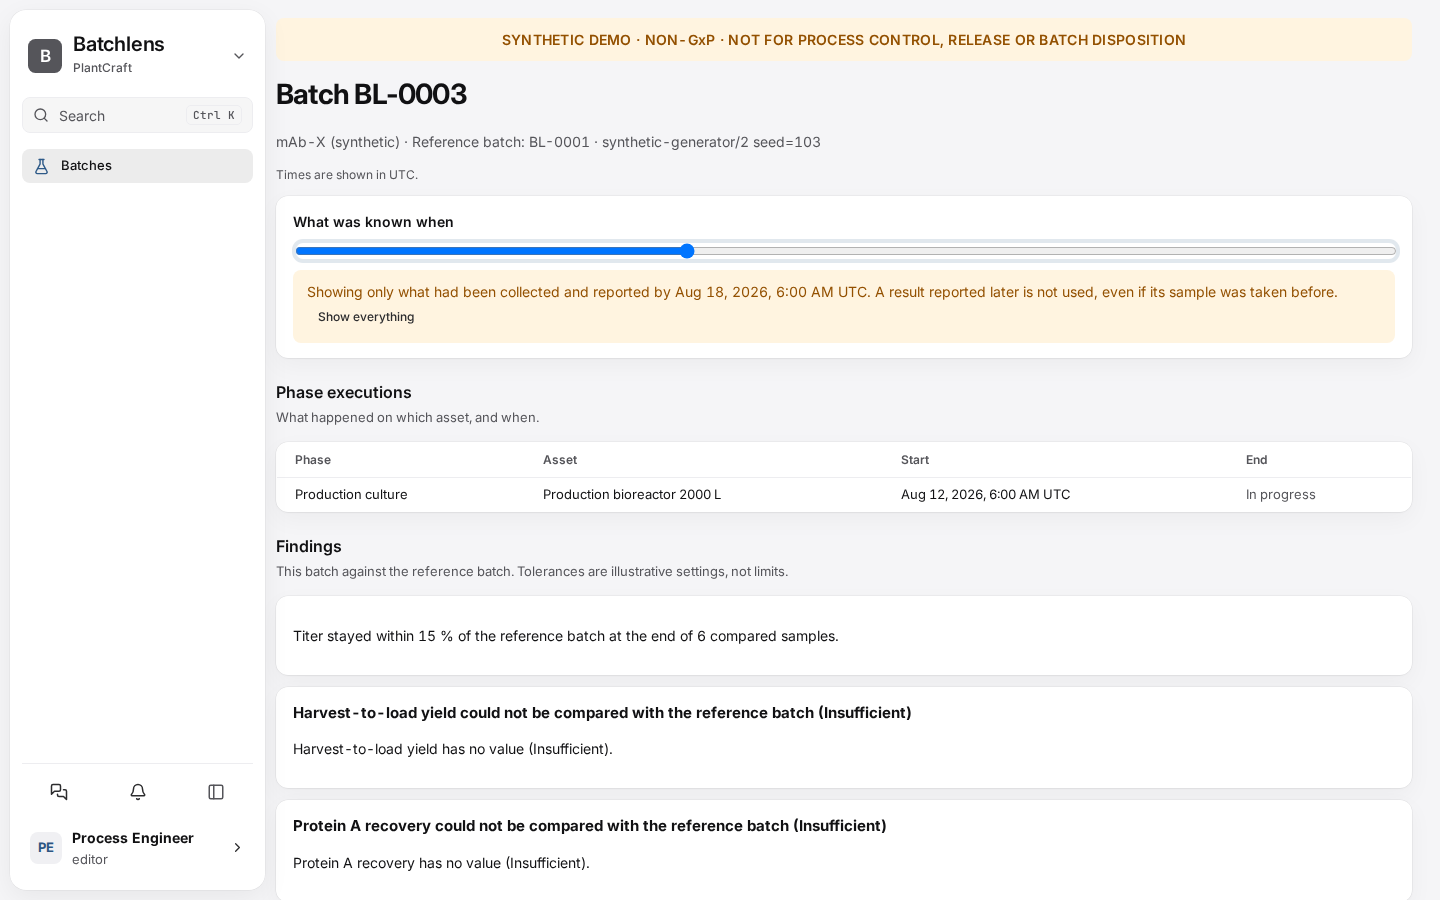
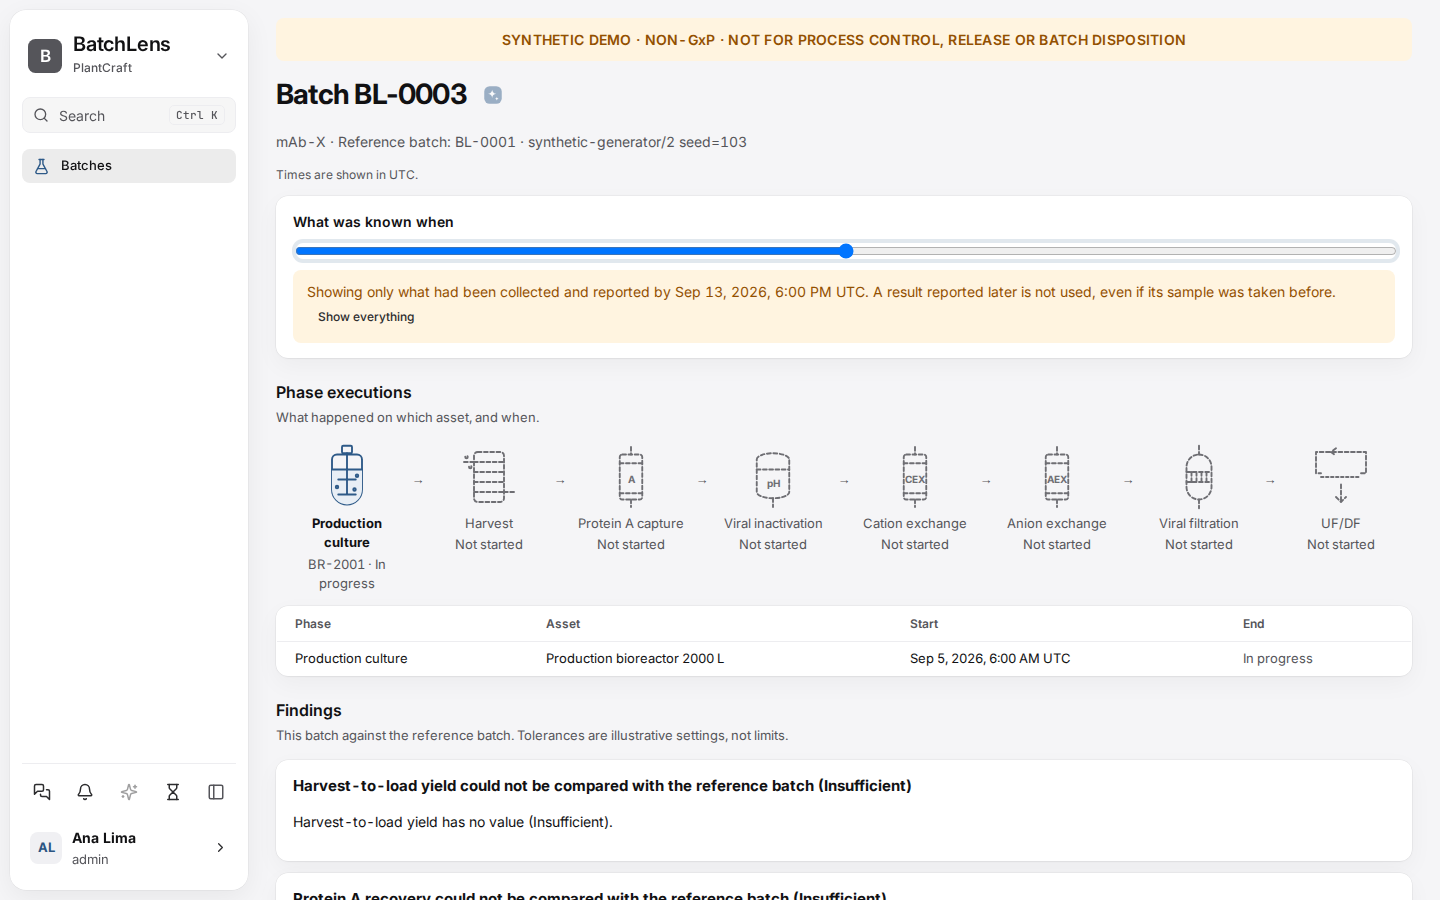
batchlens: plain product and unit names, and the rest of the documents reviewed
The owner found the disclaimers repeated on every line. The banner and
the README state them once; the product is mAb-X and the unit mAb drug
substance. The spec, assumptions and case studies now describe the live
plant, the screenshots are retaken, and the demo script stops its
servers on a signal and refuses to start over a running demo.

diff --git a/frontend/src/pages.test.tsx b/frontend/src/pages.test.tsx
@@ -46,13 +46,13 @@ const VIEWER: Me = { ...EDITOR, username: "operator", can_edit: false };
 const LIST: BatchList = {
   time_zone: "UTC",
   batches: [
-    { batch_id: "BL-0001", product: "mAb-X (synthetic)", is_reference: true, created_at: "2026-07-01T06:00:00.000Z", provenance: "synthetic-generator/1 seed=101", start: "2026-07-01T06:00:00.000Z", end: "2026-07-16T08:00:00.000Z", asset_id: "BR-2001", asset_name: "Production bioreactor 2000 L" },
-    { batch_id: "BL-0002", product: "mAb-X (synthetic)", is_reference: false, created_at: "2026-07-22T06:00:00.000Z", provenance: "synthetic-generator/1 seed=102", start: "2026-07-22T06:00:00.000Z", end: "2026-08-06T08:00:00.000Z", asset_id: "BR-2001", asset_name: null },
+    { batch_id: "BL-0001", product: "mAb-X", is_reference: true, created_at: "2026-07-01T06:00:00.000Z", provenance: "synthetic-generator/1 seed=101", start: "2026-07-01T06:00:00.000Z", end: "2026-07-16T08:00:00.000Z", asset_id: "BR-2001", asset_name: "Production bioreactor 2000 L" },
+    { batch_id: "BL-0002", product: "mAb-X", is_reference: false, created_at: "2026-07-22T06:00:00.000Z", provenance: "synthetic-generator/1 seed=102", start: "2026-07-22T06:00:00.000Z", end: "2026-08-06T08:00:00.000Z", asset_id: "BR-2001", asset_name: null },
   ],
 };
 const DETAIL: BatchDetail = {
   time_zone: "UTC",
-  batch: { batch_id: "BL-0002", product: "mAb-X (synthetic)", is_reference: false, created_at: "2026-07-22T06:00:00.000Z", provenance: "synthetic-generator/1 seed=102" },
+  batch: { batch_id: "BL-0002", product: "mAb-X", is_reference: false, created_at: "2026-07-22T06:00:00.000Z", provenance: "synthetic-generator/1 seed=102" },
   as_of: null, timeline: { start: "2026-07-22T06:00:00.000Z", end: "2026-08-06T10:00:00.000Z" },
   corrections: [{ correction_id: "c1", batch_id: "BL-0002", record_id: "BL-0002-S02", field: "collected_at", old_value: "2026-07-23T07:00:00.000Z", new_value: "2026-07-24T07:00:00.000Z", reason: "Keyed in with the previous sample's time.", corrected_by: "engineer", corrected_at: "2026-08-10T09:00:00.000Z" }],
   phases: [
@@ -166,7 +166,7 @@ describe("the batch list", () => {
     const rows = [...host.querySelectorAll("tbody tr")];
     expect(rows).toHaveLength(2);
     expect(rows[0].querySelector("a")?.getAttribute("href")).toBe("/batchlens/batches/BL-0001");
-    expect(rows[0].textContent).toContain("mAb-X (synthetic)");
+    expect(rows[0].textContent).toContain("mAb-X");
     expect(rows[0].textContent).toContain("Production bioreactor 2000 L");
     expect(rows[0].textContent).toContain("Reference");
     expect(rows[0].textContent).toContain("Jul 1, 2026, 6:00 AM UTC");

diff --git a/frontend/src/pages.tsx b/frontend/src/pages.tsx
@@ -17,7 +17,7 @@ export function tourSteps(): TourStep[] {
   return [
     {
       title: tt("Welcome to BatchLens"),
-      body: tt("BatchLens follows antibody batches from cell culture through purification to drug substance. Everything here is a demonstration: synthetic data, non-GxP."),
+      body: tt("BatchLens follows antibody batches from cell culture through purification to drug substance. Everything here is a demonstration."),
     },
     {
       path: "/",

diff --git a/src/batchlens/demo/plant.py b/src/batchlens/demo/plant.py
@@ -51,7 +51,7 @@ TAGS = {role: f"BIO.{BIOREACTOR}.{role.upper()}" for role in ONLINE_UNITS}
 # asset id -> (kind, name, parent). Roles are free text in PlantCraft's map, so the bioreactor
 # is plain equipment and no asset type has to be made before the import.
 ASSETS = {
-    UNIT: ("unit", "mAb drug substance (synthetic)", None),
+    UNIT: ("unit", "mAb drug substance", None),
     BIOREACTOR: ("equipment", "Production bioreactor 2000 L", UNIT),
     HARVEST_SKID: ("equipment", "Harvest clarification skid", UNIT),
     PROTEIN_A_SKID: ("equipment", "Protein A chromatography skid", UNIT),

diff --git a/tests/test_batches.py b/tests/test_batches.py
@@ -86,7 +86,7 @@ def test_the_list_gives_each_batch_its_reference_flag_window_and_bioreactor(seed
     ]
     assert [row["is_reference"] for row in rows] == [True, False, False, False, False]
     first, record = rows[0], CAMPAIGN["BL-0001"].record
-    assert first["product"] == "mAb-X (synthetic)"
+    assert first["product"] == "mAb-X"
     assert instant(first["start"]) == record.phases[0].start
     assert instant(first["end"]) == record.phases[-1].end
     assert first["asset_id"] == BIOREACTOR

diff --git a/src/batchlens/demo/generator.py b/src/batchlens/demo/generator.py
@@ -30,7 +30,7 @@ from batchlens.batches.models import (
 # Raised when what the generator makes changes, so a database seeded by an older one is
 # recognised (demo/seed.py). 2: the rest of the purification train and the pool genealogy.
 VERSION = "synthetic-generator/2"
-PRODUCT = "mAb-X (synthetic)"
+PRODUCT = "mAb-X"
 # Asset ids of the synthetic plant (tests/plant.py serves them from the fake PlantCraft).
 BIOREACTOR = "BR-2001"
 HARVEST_SKID = "HV-2101"

diff --git a/tools/seed_suite.py b/tools/seed_suite.py
@@ -132,7 +132,7 @@ def diagram() -> dict[str, Any]:
             "type": "text",
             "x": 40.0,
             "y": 40.0,
-            "text": "mAb drug substance train (synthetic demo)",
+            "text": "mAb drug substance train",
             "size": 18,
             "align": "start",
             "bold": True,

diff --git a/SPEC.md b/SPEC.md
@@ -4,9 +4,10 @@ What the app does and the public sources it relies on (AGENTS.md, "Clean room").
 
 ## Purpose
 
-A synthetic-data-only, non-GxP demonstration of mAb manufacturing analytics: for four
-synthetic batches it shows the chain from viable cell density to Protein A recovery, with every
-number traceable to its inputs. It makes no release, disposition or control decision.
+A demonstration of mAb manufacturing analytics on generated data, not a GxP system: for six
+batches, five finished and one running, it shows the chain from viable cell density to drug
+substance, with every number traceable to its inputs. It makes no release, disposition or
+control decision.
 
 ## Who owns what
 
@@ -18,7 +19,7 @@ number traceable to its inputs. It makes no release, disposition or control deci
 
 ## Object
 
-One aggregate, the batch record (`src/batchlens/batches/models.py`), in five tables.
+One aggregate, the batch record (`src/batchlens/batches/models.py`), in six tables, with a seventh for corrections.
 
 | Record | Fields |
 |---|---|
@@ -42,7 +43,7 @@ write routes at the end of the table.
 
 | Route | Answers |
 |---|---|
-| `GET /api/batches` | The batches, with reference flag, window and bioreactor |
+| `GET /api/batches` | The batches, with reference flag, window and bioreactor; a batch still running has no end and `running: true` |
 | `GET /api/batches/{id}?as_of=` | One batch with its phase executions and pool measurements, and the span over which anything about it became known |
 | `GET /api/batches/{id}/samples?as_of=&align_to=` | Samples and assay results, both timestamps on each, and each sample's culture day; with `align_to`, also the instant of the same culture age on another batch's timeline |
 | `GET /api/batches/{id}/metrics?as_of=` | Every metric as a result object, the reference batch's value and the difference; and `findings` against the reference batch (titer divergence, and a shortfall of the harvest-to-load yield, the Protein A recovery and each later purification step's yield), each with an `observation` (a result object), a `consequence`, `evidence` and a `cause` that is always null; and `downstream`: each purification step's masses and yield beside the reference's, the recovery from harvest, and the pool genealogy with the mass balance of a merge |
@@ -57,7 +58,8 @@ yields, with statuses and reasons). Their answers say that the data is synthetic
 data and not instructions, and that no cause is attributed.
 
 `as_of` is an ISO 8601 instant (UTC without an offset): the answer holds only what was collected
-and available by then. Unknown batch 404; malformed `as_of` 422; no token 401; no access 403. A
+and available by then. A batch still running is never shown past now, whatever `as_of` asks.
+Unknown batch 404; malformed `as_of` 422; no token 401; no access 403. A
 missing asset, signal or series in PlantCraft is HTTP 200 with the metric or trend
 `insufficient` and a reason. Plus the standard `/healthz`, `/api/me`, `/api/meta`, `/api/help`.
 
@@ -67,8 +69,10 @@ outbound connection.
 ## Calculations
 
 IVCD, specific productivity, product mass at harvest, Protein A load and eluate masses,
-harvest-to-load yield, Protein A recovery, and where a batch's titer left the reference batch's: formulas, units, worked examples, statuses and
-every assumption are in [docs/scientific-assumptions.md](docs/scientific-assumptions.md).
+harvest-to-load yield, Protein A recovery, each later purification step's yield, the mass
+balance of merged pools, where a batch's titer left the reference batch's and where a step's
+recovery fell short of it: formulas, units, worked examples, statuses and every assumption
+are in [docs/scientific-assumptions.md](docs/scientific-assumptions.md).
 
 ## Sources
 

diff --git a/docs/case-study-ai-development.md b/docs/case-study-ai-development.md
@@ -86,7 +86,30 @@ the test-first habit, the list of decisions that were not the agent's, and looki
 rendered page before calling a step done. Three of the night's fixes came from that last one
 (an as-of view that named samples not yet taken, phase ends that had not happened, and a demo
 database left stale by a change to the seeding rule). One decision was deliberately not taken:
-making the repository public, because it exposes the commit author's email address.
+making the repository public, which is the owner's.
+
+## The day after, with the owner watching
+
+The owner then opened the demo from another machine and steered for a day. What that found
+says more than the night's test counts:
+
+- **The app looked empty.** The owner's first report: "There is nothing to do or see except a
+  page listing batches." The batch ids were links drawn as plain text. 225 tests passed,
+  eight of them in a browser, and each clicked the link by its name; none asked whether a
+  person could tell it was one.
+- **The switcher did nothing.** Served to another machine, the app sat at a different origin
+  from the platform and its entry in the app switcher was dead. Every earlier check had
+  opened the app by its address.
+- **A rule that held.** The owner asked for the name "PlantCraft BatchLens". The platform's
+  own check refuses that name for an app outside the suite, and its trademark notice asks
+  first. The agent did not work around the check; it said so and offered the form the check
+  accepts.
+- **Too many disclaimers.** The owner asked why "synthetic" and "non-GxP" were everywhere.
+  The rule said never to let the demo be mistaken for a validated system; the agent had
+  applied it to every line instead of once where it cannot be missed.
+- **A direction the plan did not have.** Running the suite's modules beside the app showed
+  that five finished batches gave them nothing to show. The owner chose a live plant; the
+  agent built it by reusing the as-of filter and recorded the price in the gaps.
 
 ## Where the agent got it wrong
 
@@ -112,14 +135,14 @@ evidence of anything.
 
 | | |
 |---|---|
-| Python tests | 225 passing |
-| Interface tests | 28 passing |
+| Python tests | 236 passing |
+| Interface tests | 29 passing |
 | Browser journeys | 8 passing |
 | Benchmark | 380 seeded batches, 1,900 comparisons, a few seconds |
-| Pull requests | 13 merged, each with its devlog entry |
+| Pull requests | 21 merged; each of the first 13 with its own devlog entry, the later ones grouped |
 | Independent reviews | Two. First slice: 1 important finding and 4 minor (important fixed, 1 minor fixed since, 3 open). The night's work: 1 important and 7 minor, all fixed, each with a failing test first |
-| Decisions taken to the owner | 5, and 1 left for the owner (publication) |
-| Known gaps written down | 30, each with a state ([gaps.md](gaps.md)) |
+| Decisions taken to the owner | 5 in the first slice and the night, then the owner present for the rest; publication is the owner's |
+| Known gaps written down | 54, each with a state ([gaps.md](gaps.md)) |
 
 Not measured: how long the same work would have taken without an agent, or with an agent and
 no domain rules. An experiment comparing an agent with and without the bioprocess rules on the

diff --git a/docs/case-study-engineering.md b/docs/case-study-engineering.md
@@ -153,15 +153,35 @@ distrust analytics, which is why they are written down here and not only fixed.
   delay of 1.9 days; a fall to 85 % found 52 times out of 300; a later purification step at
   85 % of its nominal yield found 99 times out of 100, with no false alarm in 7,700 and never
   the wrong step named; no number returned for any badly recorded batch. A test fails when the published report is not what the command gives.
-- **A live run** inside PlantCraft 0.6.0, where every checked value equals the fake's.
+- **A live run** inside PlantCraft 0.6.0, where every checked value equals the fake's, and
+  later a campaign with a batch running now, seen beside the suite's own modules.
 - **Two independent reviews.** The first, of the first slice, found one path to a server
   error (an `as_of` at the edge of representable time) and four smaller issues. The second,
   of everything built afterwards, found one important defect in reseeding and seven smaller
   ones; all eight were fixed with a failing test first. Both are recorded in
   [gaps.md](gaps.md) and [devlog.md](devlog.md).
 
-At the time of writing: 225 Python tests, 28 interface tests and 8 browser journeys, all
+At the time of writing: 236 Python tests, 29 interface tests and 8 browser journeys, all
 passing locally and in the repository's CI; the exact counts of each step are in [devlog.md](devlog.md).
+
+## A plant that is running
+
+Five finished batches gave the rest of the suite nothing to show: its modules are about what
+a plant is doing now. The demo therefore has a sixth batch in its production culture, and the
+same bioreactor signals feed a dashboard and a process display in PlantCraft View and alarm
+rules in PlantCraft Alarms.
+
+The design choice was where "now" is applied. The live batch is generated whole and stored
+whole; every route cuts a running batch at the clock with the same filter `as_of` already
+used. That reused the one piece of logic every route and calculation already honoured and
+tested, where storing only the past would have meant phases without an end through the store
+and every formula. The price is stated in [gaps.md](gaps.md): the future sits in the
+database, and a new route that forgot the cut would show it.
+
+Two things about the platform surfaced only here. Its app switcher opens an app only from its
+own origin, so the local demo needs a gateway that a packaged install gets from the suite's
+proxy. And the modules' "start from the plant" steps look for control loops, so a batch plant
+with none gets its dashboard, display and rules from a script of this repository instead.
 
 ## Tradeoffs and limits
 

diff --git a/docs/scientific-assumptions.md b/docs/scientific-assumptions.md
@@ -267,6 +267,21 @@ Rounding happens only in the interface (`frontend/src/format.ts`); the API sends
 - A recorded value (an assay result, a pool volume) is shown as recorded, without trailing zeros.
 - Times are shown in the installation's time zone, which every page names.
 
+## A batch that is running
+
+The demo's live campaign (`demo_campaign(live_from)`) is the fixed campaign moved in time by
+whole days, plus `BL-0006`: qP multiplied by 0.6 from day 7, seed 106, its culture begun nine
+days before the day the demo first starts. Moving a batch changes none of its values
+(`tests/test_live.py`).
+
+- The live batch is generated whole, like the others, so its later records are dated ahead of
+  the clock. Rule: for a batch any of whose records is later than now, every answer is cut at
+  now, as if `as_of` were now; asking for a later instant gives no more.
+- Its bioreactor values reach PlantCraft in a file written again every minute, holding nothing
+  later than now. A value is recorded every 10 minutes.
+- Assumption: this imitates a running batch for a demonstration. Real records arrive as they
+  are made, late, corrected and out of order; none of that is modelled.
+
 ## The generator's model
 
 `src/batchlens/demo/generator.py`, a deterministic function of (scenario parameters, seed) on

diff --git a/docs/gaps.md b/docs/gaps.md
@@ -57,4 +57,4 @@ Known gaps, with the date they were found.
 | 2026-11-16 | The live bioreactor is a CSV file written again every minute with a value every 10 minutes: PlantCraft reads it on request, nothing is pushed, and the newest value can be up to 10 minutes old. The alarm rules' limits are illustrative and the demo's signals never cross them. | Open |
 | 2026-11-16 | A running batch can show a titer finding that rests on one sample below the reference, with no later sample reported yet. The page says so; the rule does not wait for a second sample. | Open, owner to decide |
 | 2026-11-16 | `tools/run_demo.sh --reset` deletes what the suite's modules stored under the PlantCraft checkout's `var/` (dashboards, rules, documents made in the demo). | By design, stated in the script |
-| 2026-11-16 | The screenshots in `docs/images/findings/` and `batch.png` were taken before the process train, the app's present name in the sidebar and the live batch. Those in `docs/images/suite/` are current. | Open |
+| 2026-11-16 | `docs/images/findings/correction.png` was taken before the process train and the app's present name in the sidebar; the other screenshots are current. | Open |

diff --git a/docs/demo.md b/docs/demo.md
@@ -1,6 +1,6 @@
 # The demo
 
-Six batches of `mAb-X (synthetic)`, run one after another on the same 2,000 L bioreactor. Five
+Six batches of `mAb-X`, run one after another on the same 2,000 L bioreactor. Five
 are finished, each followed by harvest and the purification train; the sixth is running when
 the demo starts. Everything is made by `src/batchlens/demo/generator.py` from fixed seeds: the
 same values on every run and machine. **All of it is illustrative**
@@ -168,7 +168,7 @@ API v1; only `tools/run_demo.sh` calls them, never the app.
 
 | Asset id | What | Signals |
 |---|---|---|
-| `U-MAB` | Unit: mAb drug substance (synthetic) | |
+| `U-MAB` | Unit: mAb drug substance | |
 | `BR-2001` | Production bioreactor 2000 L (equipment) | Roles `ph`, `do`, `temperature`, `volume`, from source `batchlens-synthetic` |
 | `HV-2101` | Harvest clarification skid | None |
 | `CH-3001` | Protein A chromatography skid | None |
